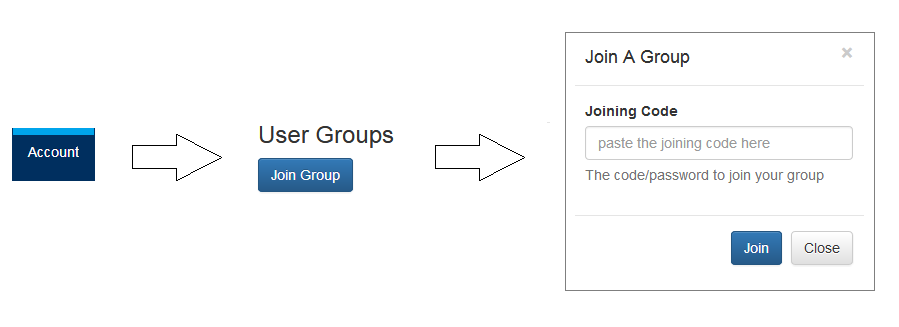
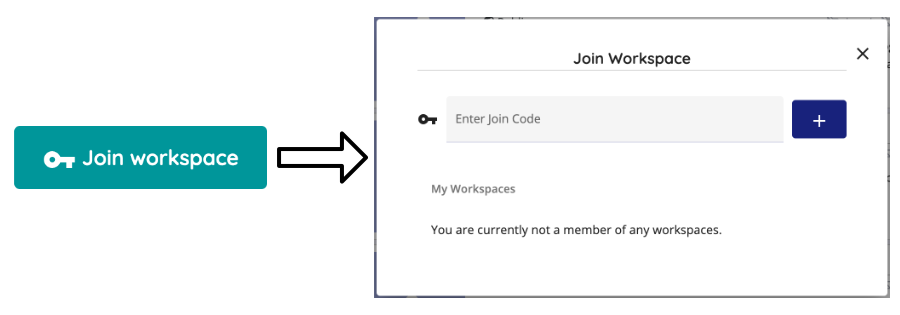
Update instructions for new CSC notebooks

diff --git a/source/lessons/L1/course-environment-components.rst b/source/lessons/L1/course-environment-components.rst
@@ -9,7 +9,6 @@ During this course, we will use different tools and applications for programming
 4. `Git and GitHub`_ for version control and documentation
 5. `Voting / polling  <#voting-and-polling>`_ for interactive questions during the lectures
 6. `Slack`_ for communicating among UH students
-7. `Zoom`_ for live session at UH
 
 Interactive code cells
 ----------------------
@@ -84,22 +83,18 @@ Once the instance is ready, you can navigate to the lesson folders and start wor
 CSC Notebooks
 ~~~~~~~~~~~~~
 
-.. warning:: 
-
-    We are currently experiencing issues with the CSC Notebooks platform due to their migration to a new system.
-    As a result, we recommend using Binder for the interactive coding parts of the course in week 1.
-    The instructions below apply to the old CSC Notebooks system and will not work.
-
-Notebooks by CSC (https://notebooks.csc.fi) is a computing environment hosted by the Finnish IT Center for Science (CSC). Similarly as in Binder, CSC notebooks are used for running Jupyter Notebooks in a customized environment.
-CSC Notebooks is available only for students who are affiliated with Finnish universities and research institutes (via the HAKA user authentication).
+Notebooks by CSC (https://notebooks.csc.fi) is a computing environment hosted by the Finnish IT Center for Science (CSC). Similar to Binder, the CSC Notebooks platform is used for running Jupyter Notebooks in a customized environment.
+CSC Notebooks is available only for students who are affiliated with Finnish universities and research institutes (via the Haka user authentication).
 
 .. note:: **When using the CSC Notebooks for the first time, you need to join the group created for this course:**
 
     1. Log in at https://notebooks.csc.fi/
-    2. Go to Account-tab
-    3. Join Group **Geo-Python** using the joining code: ``geo-python-tadl4``
+    2. Select Haka for the authentication provider
+    3. Enter your Finnish university login credentials
+    4. Click on the **Join workspace** button on the top left
+    5. Join the Geo-Python workspace using the join code ``geo-0bkh83f3``
 
-    After joining the group, you should be able to view the course environments called `Geo-Python 2021` on the Dashboard.
+    After joining the group, you should be able to view the course environments called `Geo-Python 2022` at the top of the Application list.
 
 .. figure:: img/CSC_join_group.png
    :alt: Join Group in CSC Notebooks
@@ -107,10 +102,9 @@ CSC Notebooks is available only for students who are affiliated with Finnish uni
 .. note:: **Repeat these steps every time when starting to work on a programming task using the CSC Notebooks:**
 
     1. Log in at https://notebooks.csc.fi/
-    2. Click ``Launch new`` on the Dashboard
-    3. Wait. It might take a few moments for the instance to launch
-    4. Click ``Open in browser`` once the instance is ready
-    5. If you are asked to ``Click to copy password & proceed``, then click on the button, and paste the password on the following page
+    2. Select Haka for the authentication provider
+    3. Enter your Finnish university login credentials
+    4. Click on the **Start session** button for the Geo-Python 2022 workspace
 
 .. figure:: img/CSC_launch_new.png
    :alt: Launch new Jupyter Lab instance
